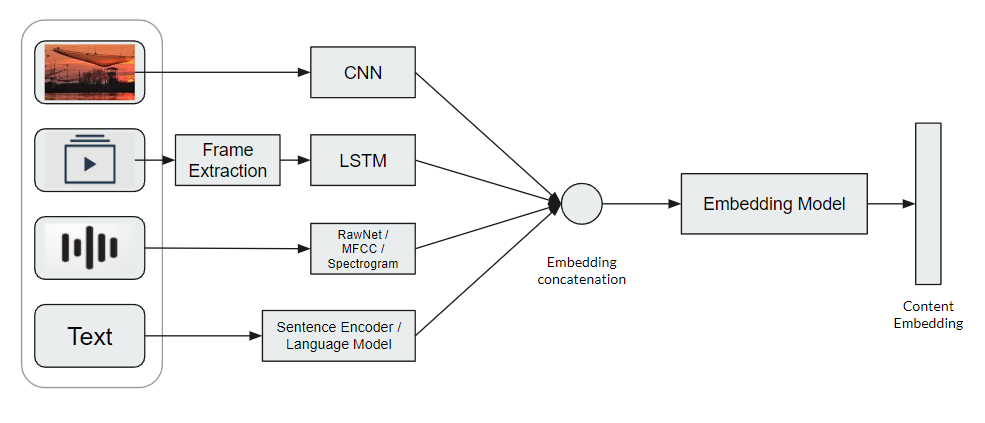
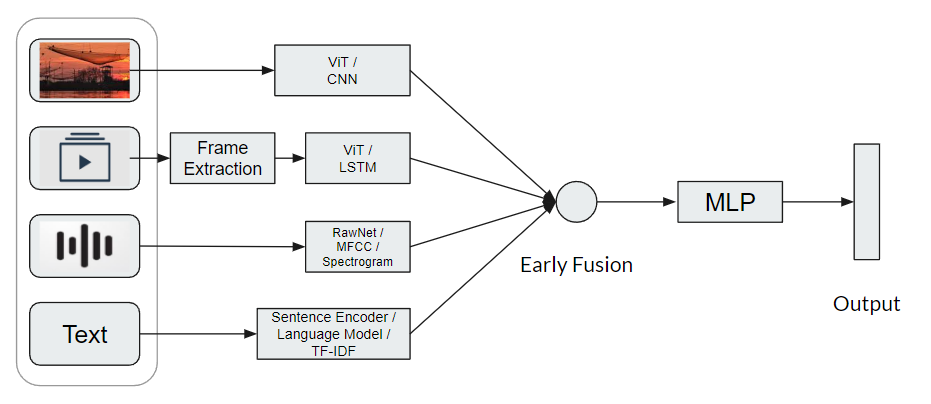
[solution-1] Improve pipeline image and add discussion

diff --git a/solution-1/README.md b/solution-1/README.md
@@ -11,10 +11,10 @@ have to take all of this kind of data to a single Agent.
 the process.
 
 # Answer
-Given the constraint that the social media posts may be available in different formats, I would approach the problem by leveraging **multi-modal learning**. To achieve this, I would follow the steps detailed below.
+Given the constraint that the social media posts may be contain different formats, I would approach the problem by leveraging **multi-modal learning**. To achieve this, I would follow the steps detailed below.
 
-![Demo pipeline to extract embeddings of a social media post](pipeline.png)
-*Image 1: Demo pipeline to extract embeddings of a social media post*
+![Demo pipeline using early fusion](pipeline.png)
+*Image 1: Demo pipeline using early fusion*
 
 ## 1. Literature Review and Prototyping
 Before approaching the problem, my preliminary step would be to look for academic publications on existing or similar works. Then I would try to reproduce a few of the research works and create a prototype on a smaller scale to get an idea on the state of the art approaches. In this step I would also define my objective and modus operandi.
@@ -28,40 +28,43 @@ Before approaching the problem, my preliminary step would be to look for academi
 | Finally, after merging the data retrieved by the two methods mentioned above, I would **scrape websites** that legally allow to do so. |
 ||
 
+I recognize that further manual annotations might be needed depending on the specific tasks to solve.
+
 ### 2.2 Data Preprocessing
 I would have to deploy different data preprocessing techniques for the different data formats.
 
 *Text* data will have to normalized, stemmed and lemmatized before being tokenized based on a vocabulary. Existing  Word2Vec models or language models may be used to extract word or sentence embeddings.
 
-*Audio* data can be used to extract different features such as spectograms or MFCC. Some end to end deep learning approaches like the [RawNet](https://arxiv.org/abs/1904.08104) may also be explored.
-
 *Image* data would be resized and normalized before passing them to pre-trained large CNN models to extract embeddings about them.
 
 *Video* data has an extra temporal dimension in contrast to image data. Hence, after extracting the frames and preprocessing them, the frames will have to be passed into an RNN or LSTM model to extract a feature embedding of the video.
 
+*Audio* data can be used to extract different features such as spectograms or MFCC. Some end to end deep learning approaches like the [RawNet](https://arxiv.org/abs/1904.08104) may also be explored.
+
 ### 2.3 Data Imbalance
 
-Due to the nature of the data, it is expected that data across all formats will be imbalanced. This may negatively impact the performance of the models that use this dataset. I will experiment with several methods including *over/under sampling*, *cost-sensitive learning* and *knowledge distillation* to decelerate the effects of data imbalance.
+Due to the multi modal nature of the data, it is expected that data across all formats will be imbalanced. This may negatively impact the performance of the models that use this dataset. I will experiment with several methods including *over/under sampling*, *cost-sensitive learning* and *knowledge distillation* to decelerate the effects of data imbalance.
 
 ## 3. Model Training
-To create a general model that understands data of any format, I would first extract the feature embeddings from the input data as shown in (Image 1). Then I would finetune an `embedding model` for different tasks.
+
+To create an agent that understands data of any format, I would first extract the feature embeddings from the input data as shown in (Image 1). Then I would finetune an `embedding model` for different tasks.
 
 ### 3.1 Content Segmentation Task
 
-To segment the contents, I would first define the categories and add a fully connected layer to the `embedding model` with node numbers equal to the category numbers. I would then take some annotated contents to train the entire pipeline.
-
-If pre-trained models are used to extract features from the input data, then I would also try to use unsupervised learning on the concatanated embeddings.
+To segment the contents, I would first define the categories and add a fully connected layer to the MLP with node numbers equal to the category numbers. I would then take some annotated contents to train the MLP using the fused embedding.
 
 ### 3.2 Popularity Task
 
-By aggregating different metrics such as likes, comments, shares, and views, I could attempt to create a popularity prediction model. This can be achieved by attaching a fully connected layer with one regressional output to the `embedding model`.
+By aggregating different metrics such as likes, comments, shares, and views, I could attempt to create a popularity prediction model. This can be achieved by attaching a regressional layer to the MLP.
 
 ### 3.3 Trending Task
 
-To find the trends, I would try to first categorize the contents in different topics and do sentiment-analysis on these topics. Finally I would apply time series analysis to plot the trends.
+To find the trends, I would try to first categorize the contents in different topics and do sentiment-analysis on these topics. Finally I would apply time series analysis to plot the trends of the different topics based on the date the contents were posted.
 
 ### 3.4 Similarity task
 
-To find if two contents are depicting the same real life event/emotion, the embeddings from the `embedding model` can be used by finding their `cos_similarity` or other similar algorithms.
+To find if two contents are depicting the same real life event/emotion, the embeddings from the MLP can be used by finding their `cos_similarity` or other similar algorithms.
 
-## Conclusion
+## 4 Discussion
+
+The proposed methodology has many challenges that can only be verified and tackled through rigorous experimentations. One such problem may arise from missing modalities, which currently may be addressed by passing placeholder zero vectors. More solutions may be attempted based on [newer studies](https://arxiv.org/abs/2303.03369). In this answer, I have only discussed about early fusion, whereas other fusion strategies, such as intermediate fusion and late fusion may also be experimented with.
